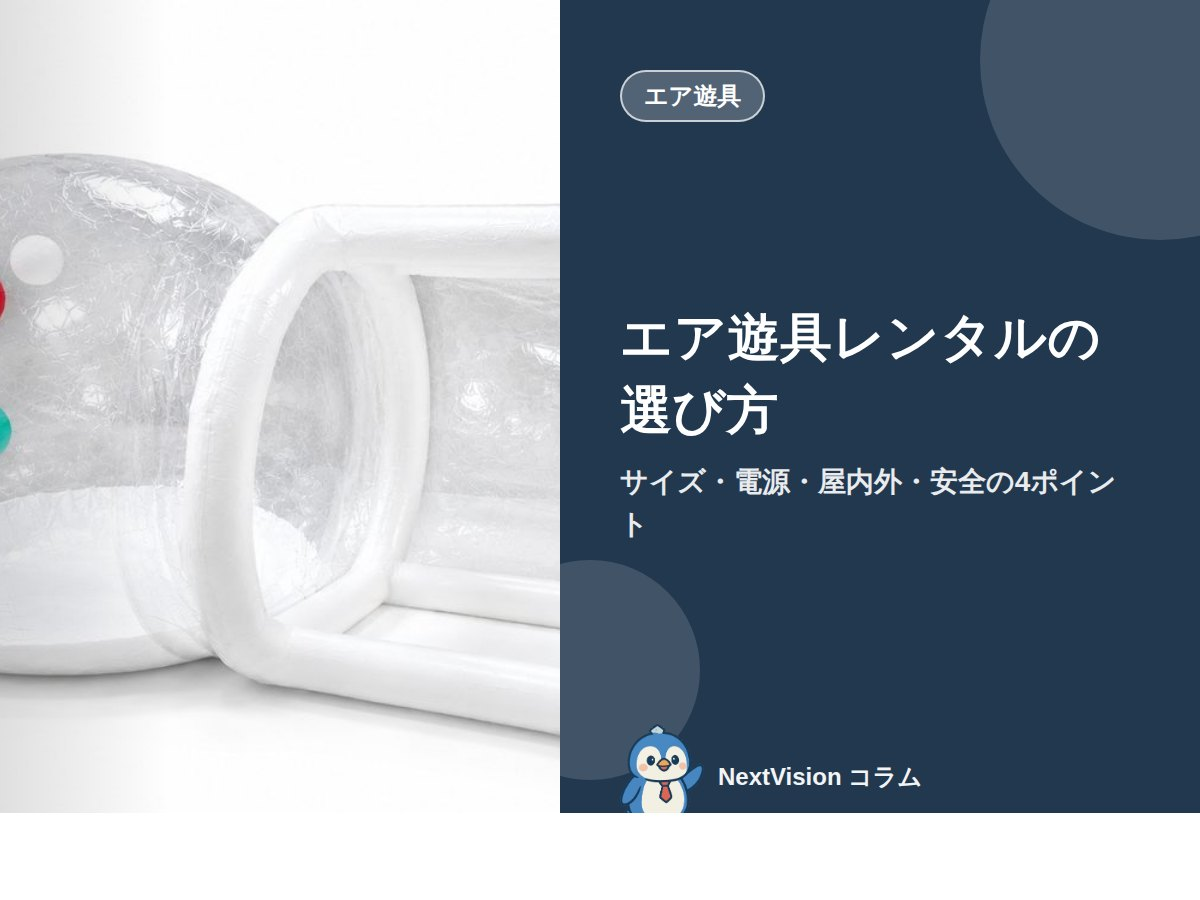
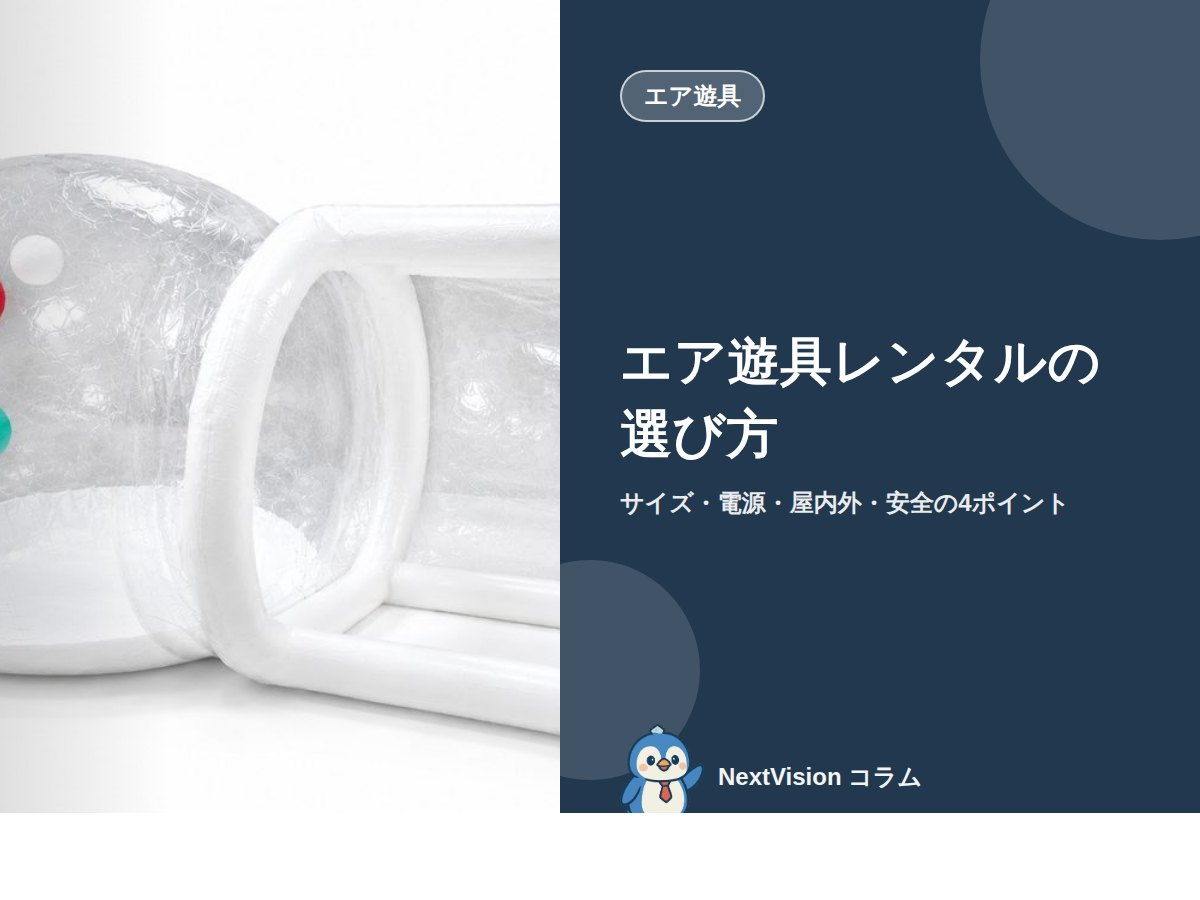
HP: 記事05のアイキャッチ写真を差し替え、見出しの改行候補を漢字⇄カタカナの境目にも追加、アイキャッチの文字サイズを題名の長さで調整
Claude-Session: https://claude.ai/code/session_012kicGuvomfHJQt5uDrZbX1

Changed region(s): [[0.4933, 0.3422, 0.925, 0.5911]]

diff --git a/site/blog/air-rental-guide.html b/site/blog/air-rental-guide.html
@@ -536,7 +536,7 @@ footer{background:var(--navy);color:rgb(255 255 255 / .7);padding:34px 0 30px;fo
       <a href="../index.html#contact" class="btn btn-primary nav-cta">相談する</a>
     </nav>
   </div>
-</header><div class="wrap crumb"><a href="../index.html">ホーム</a> ／ <a href="../index.html#column">コラム</a> ／ <span class="cur">エア遊具レンタルの選び方｜サイズ・電源・屋内外・安全の4ポイント</span></div><main class="wrap post"><span class="kick">COLUMN</span><h1>エア遊具レンタルの<wbr>選び方｜<wbr>サイズ・<wbr>電源・<wbr>屋内外・<wbr>安全の<wbr>4ポイント</h1><div class="pmeta"><span>公開日 2026-10-04</span><span>読了 約5分</span><span>株式会社NextVision</span></div><img class="lead-img" src="../images/eyecatch-air-rental-guide.jpg" alt="エア遊具レンタルの選び方｜サイズ・電源・屋内外・安全の4ポイント" fetchpriority="high"><div class="pbody"><p>「空きスペースを賑わいに変えたい」「週末だけ遊具を置きたい」。エア遊具のレンタルは、こうしたご相談にすぐ応えられる手段です。一方で、サイズや電源の確認が甘いまま手配すると、当日に設置できないこともあります。この記事では、NextVisionで取り扱っている機種を例に、レンタル前に確認したい4つのポイントと、機種別のサイズ・料金をまとめます。</p>
+</header><div class="wrap crumb"><a href="../index.html">ホーム</a> ／ <a href="../index.html#column">コラム</a> ／ <span class="cur">エア遊具レンタルの選び方｜サイズ・電源・屋内外・安全の4ポイント</span></div><main class="wrap post"><span class="kick">COLUMN</span><h1>エア<wbr>遊具<wbr>レンタルの<wbr>選び方｜<wbr>サイズ・<wbr>電源・<wbr>屋内外・<wbr>安全の<wbr>4ポイント</h1><div class="pmeta"><span>公開日 2026-10-04</span><span>読了 約5分</span><span>株式会社NextVision</span></div><img class="lead-img" src="../images/eyecatch-air-rental-guide.jpg" alt="エア遊具レンタルの選び方｜サイズ・電源・屋内外・安全の4ポイント" fetchpriority="high"><div class="pbody"><p>「空きスペースを賑わいに変えたい」「週末だけ遊具を置きたい」。エア遊具のレンタルは、こうしたご相談にすぐ応えられる手段です。一方で、サイズや電源の確認が甘いまま手配すると、当日に設置できないこともあります。この記事では、NextVisionで取り扱っている機種を例に、レンタル前に確認したい4つのポイントと、機種別のサイズ・料金をまとめます。</p>
 <h2>エア遊具が店頭イベントで使われる理由</h2>
 <p>エア遊具の強みは、大きさと色による視認性です。遠くからでも「何かやっている」と伝わり、通行客の足を止めます。常時稼働なので順番待ちの列ができにくく、滞在時間と館内回遊のきっかけにもなります。体験コンテンツとのセットはもちろん、遊具だけの単体レンタルにも対応しているため、「まずは1台から」という始め方もできます。</p>
 <figure><img src="../images/airizm.jpg" alt="エア遊具 エアリズム"><figcaption>透明なドーム型のエア遊具「エアリズム」</figcaption></figure>

diff --git a/site/blog/squeeze-workshop-store.html b/site/blog/squeeze-workshop-store.html
@@ -536,7 +536,7 @@ footer{background:var(--navy);color:rgb(255 255 255 / .7);padding:34px 0 30px;fo
       <a href="../index.html#contact" class="btn btn-primary nav-cta">相談する</a>
     </nav>
   </div>
-</header><div class="wrap crumb"><a href="../index.html">ホーム</a> ／ <a href="../index.html#column">コラム</a> ／ <span class="cur">スクイーズ工作ワークショップを店頭で開く方法｜出張・レンタルの流れ</span></div><main class="wrap post"><span class="kick">COLUMN</span><h1>スクイーズ工作ワークショップを<wbr>店頭で<wbr>開く方法｜<wbr>出張・<wbr>レンタルの<wbr>流れ</h1><div class="pmeta"><span>公開日 2026-10-04</span><span>読了 約5分</span><span>株式会社NextVision</span></div><img class="lead-img" src="../images/eyecatch-squeeze-workshop-store.jpg" alt="スクイーズ工作ワークショップを店頭で開く方法｜出張・レンタルの流れ" fetchpriority="high"><div class="pbody"><p>「店頭で子ども向けの工作イベントを開きたいが、スペースも人手も限られている」。そんなご相談に向いているのが、出張型のスクイーズ工作ワークショップです。NextVisionでは「ぷにラボ」として、機材と材料を会場にお持ちし、設営から運営までお手伝いしています。この記事では、販促担当者の方が企画前に知っておきたい、作れるもの、当日の流れ、会場条件、料金の目安をまとめます。</p>
+</header><div class="wrap crumb"><a href="../index.html">ホーム</a> ／ <a href="../index.html#column">コラム</a> ／ <span class="cur">スクイーズ工作ワークショップを店頭で開く方法｜出張・レンタルの流れ</span></div><main class="wrap post"><span class="kick">COLUMN</span><h1>スクイーズ<wbr>工作<wbr>ワークショップを<wbr>店頭で<wbr>開く方法｜<wbr>出張・<wbr>レンタルの<wbr>流れ</h1><div class="pmeta"><span>公開日 2026-10-04</span><span>読了 約5分</span><span>株式会社NextVision</span></div><img class="lead-img" src="../images/eyecatch-squeeze-workshop-store.jpg" alt="スクイーズ工作ワークショップを店頭で開く方法｜出張・レンタルの流れ" fetchpriority="high"><div class="pbody"><p>「店頭で子ども向けの工作イベントを開きたいが、スペースも人手も限られている」。そんなご相談に向いているのが、出張型のスクイーズ工作ワークショップです。NextVisionでは「ぷにラボ」として、機材と材料を会場にお持ちし、設営から運営までお手伝いしています。この記事では、販促担当者の方が企画前に知っておきたい、作れるもの、当日の流れ、会場条件、料金の目安をまとめます。</p>
 <h2>作れるもの：ぷにぷにの肉球スクイーズ</h2>
 <p>ぷにラボで作るのは、安心・安全なシリコン素材でできた肉球のスクイーズです。サイズは2種類あります。</p>
 <ul>

diff --git a/tools/make_eyecatch.py b/tools/make_eyecatch.py
@@ -15,7 +15,11 @@ def wbr(t):
     t=html.escape(t)
     t=re.sub(r'(｜|、|・|：|:)',r'\1<wbr>',t)
     t=re.sub(r'(?<=[ぁ-ん])(の|が|と|を|に|は|で|へ|や|も)(?=[^ぁ-ん<])',r'\1<wbr>',t)
-    t=re.sub(r'(?<=[一-龥ァ-ヶa-zA-Z0-9])(の|が|と|を|に|は|で|へ|や|も|から|まで)(?=[一-龥ァ-ヶ「a-zA-Z0-9])',r'\1<wbr>',t)
+    t=re.sub(r'(?<=[一-龥ァ-ヶーa-zA-Z0-9])(の|が|と|を|に|は|で|へ|や|も|から|まで)(?=[一-龥ァ-ヶ「a-zA-Z0-9])',r'\1<wbr>',t)
+    t=re.sub(r'(?<=[一-龥])(?=[ァ-ヶ])','<wbr>',t)
+    t=re.sub(r'(?<=[ァ-ヶー])(?=[一-龥])','<wbr>',t)
+    t=re.sub(r'(?<=[ァ-ヶー])(?=[0-9])','<wbr>',t)
+    t=re.sub(r'(<wbr>)+','<wbr>',t)
     return t
 def du(p):
     mt='image/png' if p.endswith('.png') else 'image/jpeg'
@@ -28,6 +32,8 @@ def make(num):
     photo=fm.get('photo','').strip() or PHOTO_BY_CAT.get(cat,'klp-photo-scene.jpg')
     main,tint,ink=THEMES[theme]; flip=int(num)%2==0
     tshort,_,tsub=title.partition('｜')
+    fs=52 if len(tshort)<=12 else 46 if len(tshort)<=16 else 40
+    ss=28 if len(tsub)<=16 else 24
     mascot=du('site/images/mascot.png'); ph=du('site/images/'+photo)
     page=f'''<!DOCTYPE html><html lang="ja"><head><meta charset="utf-8">
 <link href="https://fonts.googleapis.com/css2?family=Zen+Maru+Gothic:wght@700;900&display=swap" rel="stylesheet">
@@ -37,13 +43,13 @@ def make(num):
 .photo{{flex:1;position:relative;overflow:hidden}}.photo img{{width:100%;height:100%;object-fit:cover;display:block}}
 .photo:after{{content:"";position:absolute;inset:0;background:linear-gradient({'to left' if flip else 'to right'},rgba(0,0,0,0) 70%,rgba(0,0,0,.12))}}
 .cat{{display:inline-block;background:rgba(255,255,255,.22);border:2px solid rgba(255,255,255,.7);border-radius:999px;padding:8px 22px;font-size:24px;font-weight:700;align-self:flex-start}}
-.t{{font-size:52px;font-weight:900;line-height:1.4;letter-spacing:.01em;word-break:keep-all;overflow-wrap:anywhere;text-wrap:pretty}}
-.s{{font-size:28px;font-weight:700;opacity:.9;margin-top:14px;line-height:1.5}}
+.t{{font-size:{fs}px;font-weight:900;line-height:1.4;letter-spacing:.01em;word-break:keep-all;overflow-wrap:anywhere;text-wrap:pretty}}
+.s{{font-size:{ss}px;font-weight:700;opacity:.9;margin-top:14px;line-height:1.5}}
 .brand{{display:flex;align-items:center;gap:14px;font-size:24px;font-weight:700;opacity:.95}}.brand img{{width:84px}}
 .dot{{position:absolute;border-radius:50%;background:rgba(255,255,255,.14)}}
 </style></head><body><div class="f">
 <div class="panel"><div class="dot" style="width:360px;height:360px;right:-140px;top:-120px"></div><div class="dot" style="width:220px;height:220px;left:-80px;bottom:120px"></div>
-<span class="cat">{html.escape(cat)}</span><div><div class="t">{wbr(tshort)}</div>{'<div class="s">'+html.escape(tsub)+'</div>' if tsub else ''}</div>
+<span class="cat">{html.escape(cat)}</span><div><div class="t">{wbr(tshort)}</div>{'<div class="s">'+wbr(tsub)+'</div>' if tsub else ''}</div>
 <div class="brand"><img src="{mascot}">NextVision コラム</div></div>
 <div class="photo"><img src="{ph}"></div></div></body></html>'''
     tmp=tempfile.NamedTemporaryFile('w',suffix='.html',delete=False,encoding='utf-8'); tmp.write(page); tmp.close()

diff --git a/tools/build_article.py b/tools/build_article.py
@@ -29,7 +29,11 @@ def wbr(t):
     t=html.escape(t)
     t=re.sub(r'(｜|、|・|：|:)',r'\1<wbr>',t)
     t=re.sub(r'(?<=[ぁ-ん])(の|が|と|を|に|は|で|へ|や|も)(?=[^ぁ-ん<])',r'\1<wbr>',t)
-    t=re.sub(r'(?<=[一-龥ァ-ヶa-zA-Z0-9])(の|が|と|を|に|は|で|へ|や|も|から|まで)(?=[一-龥ァ-ヶ「a-zA-Z0-9])',r'\1<wbr>',t)
+    t=re.sub(r'(?<=[一-龥ァ-ヶーa-zA-Z0-9])(の|が|と|を|に|は|で|へ|や|も|から|まで)(?=[一-龥ァ-ヶ「a-zA-Z0-9])',r'\1<wbr>',t)
+    t=re.sub(r'(?<=[一-龥])(?=[ァ-ヶ])','<wbr>',t)
+    t=re.sub(r'(?<=[ァ-ヶー])(?=[一-龥])','<wbr>',t)
+    t=re.sub(r'(?<=[ァ-ヶー])(?=[0-9])','<wbr>',t)
+    t=re.sub(r'(<wbr>)+','<wbr>',t)
     return t
 def relfix(x): return re.sub(r'((?:href|src|action)=")(?!https?:|#|mailto:|tel:|data:|\.\./)([^"]+)"',r'\1../\2"',x)
 def figure(spec):

diff --git a/docs/marketing/articles/05-squeeze-workshop-store.md b/docs/marketing/articles/05-squeeze-workshop-store.md
@@ -8,7 +8,7 @@ reader: 商業施設・店舗・展示場・携帯キャリアショップの販
 status: published（2026-10-04）　URL: https://nextvision.fun/blog/squeeze-workshop-store.html
 category: ワークショップ
 theme: purple
-photo: punilab-mold.jpg
+photo: punilab-pack.jpg
 cta_heading: 6畳のスペースから、スクイーズ工作を店頭で
 cta_text: 会場の広さ・電源・想定来場者数をお聞かせください。開催できる構成と概算をご案内します。日程未定でもご相談いただけます。
 cta_buttons: index.html#contact|相談・お見積り ; punilab.html|ぷにラボの詳細 ; blog/taiken-stay-time.html|滞在時間が伸びる理由を読む
